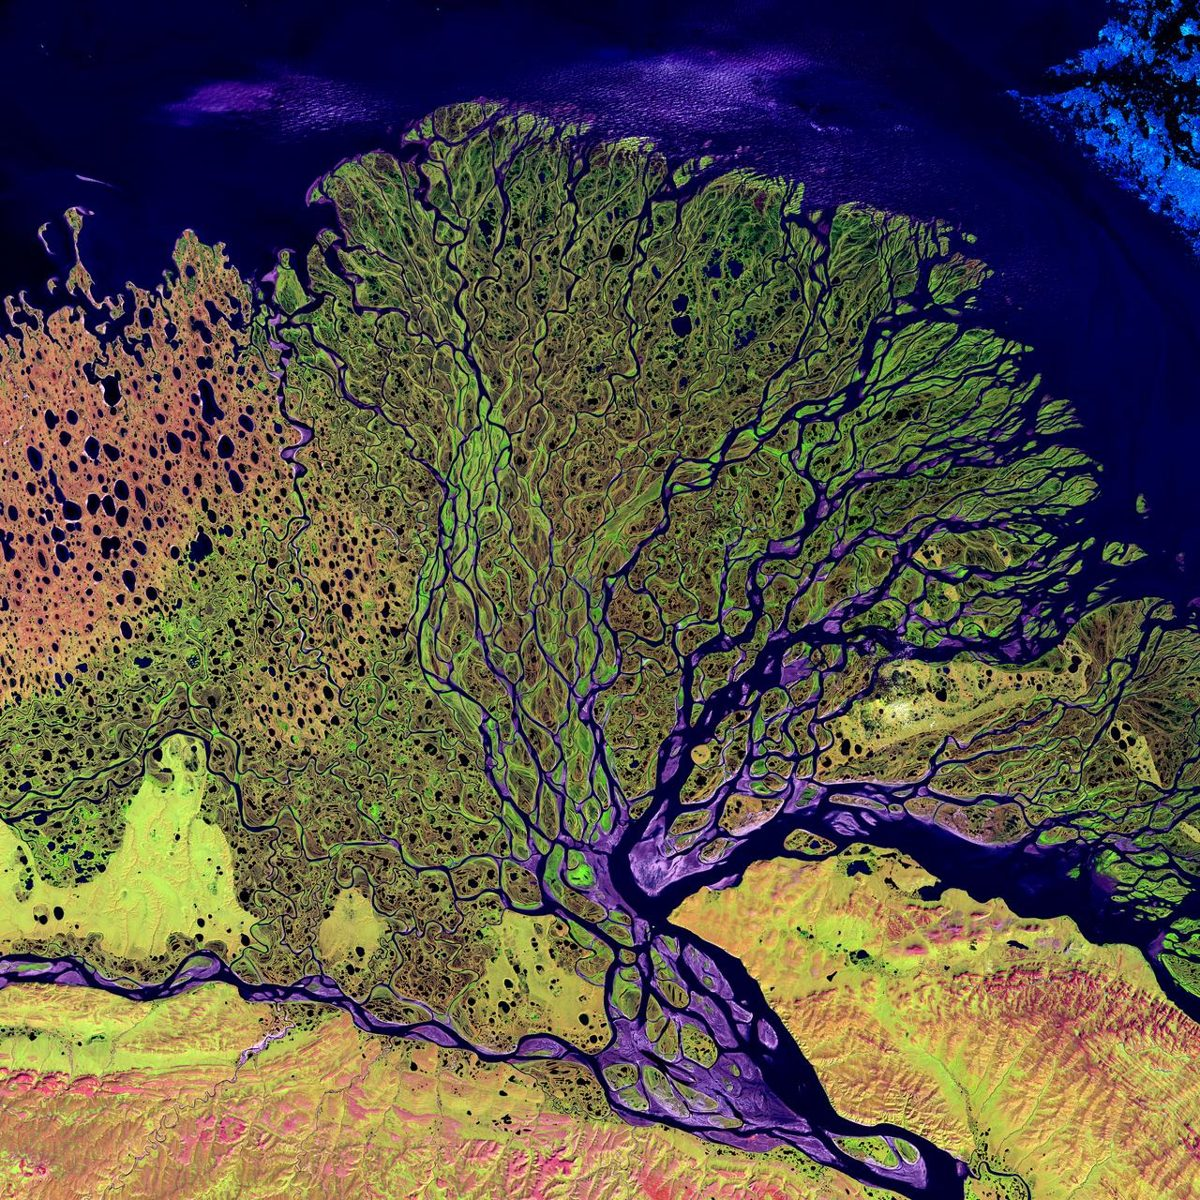
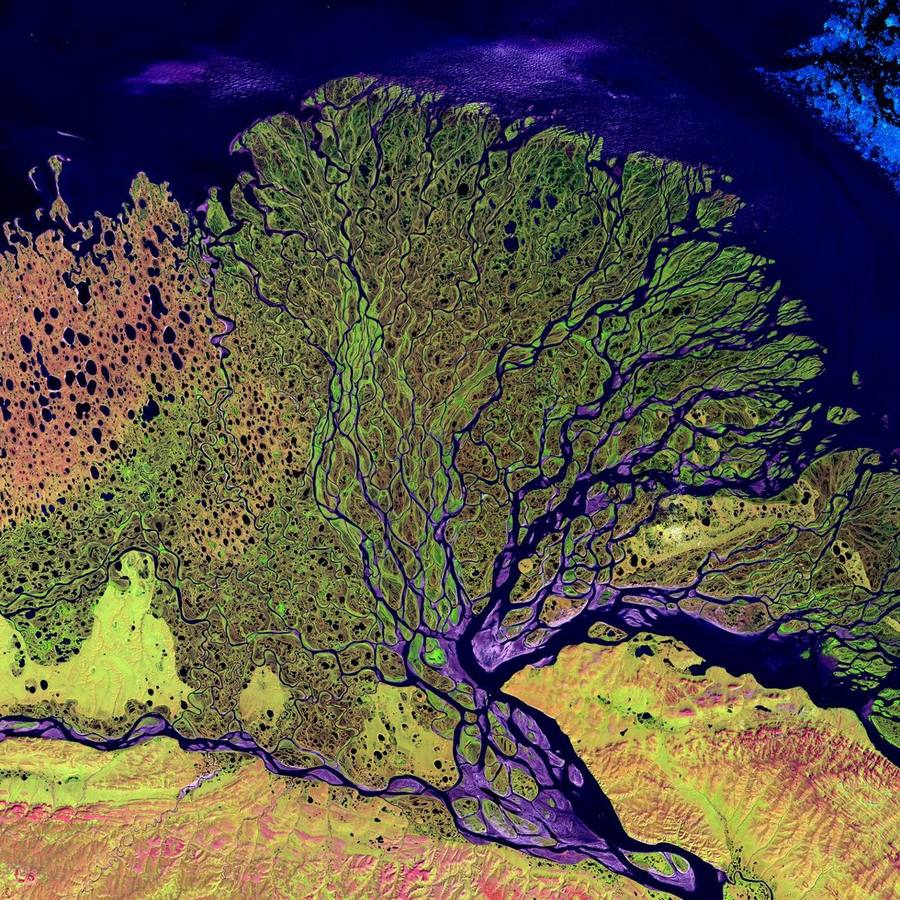
Amazing Facts: compress Lena (520->226KB) and Bahamas (205->112KB) images, cache-bust

diff --git a/Amazing_Facts.html b/Amazing_Facts.html
@@ -26,9 +26,9 @@
 <section class="page-hero pr-hero af-hero"><div class="page-hero-content"><h1>Amazing Facts That Matter</h1><p>Numbers behind the work. Sources belong on each fact.</p><p class="fact-credit af-hero-credit">Banner: composite of NASA images — Earthset from Orion (Artemis II), Hubble eXtreme Deep Field (NASA/ESA), Neptune by Voyager 2 (NASA/JPL)</p></div></section>
 <section class="five-ws" id="solution"><div class="ws-grid">
 <!-- FACTS:START -->
-<div class="w-card" data-fact-origin="hand"><h3>One Thousand Rivers</h3><img class="fact-img" src="assets/Lena_Delta_Landsat.jpg" alt="Landsat view of the Lena River Delta, with hundreds of channels branching toward the sea" width="1200" height="1200" loading="lazy" decoding="async"><p class="fact-credit">Image: NASA/USGS Landsat, Lena Delta</p><p>About 1,000 rivers contribute most riverine plastic reaching the ocean, per a Science Advances riverine-plastic study.</p><p class="fact-source">Source: <a href="https://www.science.org/doi/10.1126/sciadv.aaz5803" target="_blank" rel="noreferrer">Meijer et al., Science Advances 2021</a></p></div>
+<div class="w-card" data-fact-origin="hand"><h3>One Thousand Rivers</h3><img class="fact-img" src="assets/Lena_Delta_Landsat.jpg?v=20261010b" alt="Landsat view of the Lena River Delta, with hundreds of channels branching toward the sea" width="900" height="900" loading="lazy" decoding="async"><p class="fact-credit">Image: NASA/USGS Landsat, Lena Delta</p><p>About 1,000 rivers contribute most riverine plastic reaching the ocean, per a Science Advances riverine-plastic study.</p><p class="fact-source">Source: <a href="https://www.science.org/doi/10.1126/sciadv.aaz5803" target="_blank" rel="noreferrer">Meijer et al., Science Advances 2021</a></p></div>
 <div class="w-card" data-fact-origin="page" data-fact-page="Jupiter.html"><h3>Room For 1,300 Earths</h3><img class="fact-img" src="assets/Jupiter_Cassini_Portrait.jpg" alt="Cassini true-color portrait of Jupiter" loading="lazy" decoding="async"><p class="fact-credit">Image: NASA/JPL/University of Arizona, Cassini</p><p>You could fit roughly 1,300 Earths inside Jupiter (about 1,321 by volume).</p><p class="fact-source">From: <a href="Jupiter.html">Jupiter: Earth's Natural Debris Shield</a></p><p class="fact-source">Source: <a href="https://nssdc.gsfc.nasa.gov/planetary/factsheet/jupiterfact.html" target="_blank" rel="noreferrer">NASA Jupiter Fact Sheet</a></p></div>
-<div class="w-card" data-fact-origin="hand"><h3>Sixty-Five Million Kilograms</h3><img class="fact-img" src="assets/Bahamas_Ocean_ISS.jpg" alt="The clear blue waters around the Bahamas seen from the International Space Station" width="1200" height="800" loading="lazy" decoding="async"><p class="fact-credit">Image: NASA, International Space Station</p><p>The Ocean Cleanup reported 65 million kilograms of plastic removed as of October 2026 — their biggest year ever was 2025, with 27 million kilograms alone.</p><p class="fact-source">Source: <a href="https://theoceancleanup.com/" target="_blank" rel="noreferrer">The Ocean Cleanup</a> (organization figure) · <a href="https://theoceancleanup.com/updates/2025-in-review-the-ocean-cleanup/" target="_blank" rel="noreferrer">2025 in review</a></p></div>
+<div class="w-card" data-fact-origin="hand"><h3>Sixty-Five Million Kilograms</h3><img class="fact-img" src="assets/Bahamas_Ocean_ISS.jpg?v=20261010b" alt="The clear blue waters around the Bahamas seen from the International Space Station" width="1000" height="667" loading="lazy" decoding="async"><p class="fact-credit">Image: NASA, International Space Station</p><p>The Ocean Cleanup reported 65 million kilograms of plastic removed as of October 2026 — their biggest year ever was 2025, with 27 million kilograms alone.</p><p class="fact-source">Source: <a href="https://theoceancleanup.com/" target="_blank" rel="noreferrer">The Ocean Cleanup</a> (organization figure) · <a href="https://theoceancleanup.com/updates/2025-in-review-the-ocean-cleanup/" target="_blank" rel="noreferrer">2025 in review</a></p></div>
 <!-- FACTS:END -->
 </div></section>
 <section class="impact-bar"><h2 class="stats-title">Our Stats are Already Amazing Facts.</h2><div class="stat-row">
